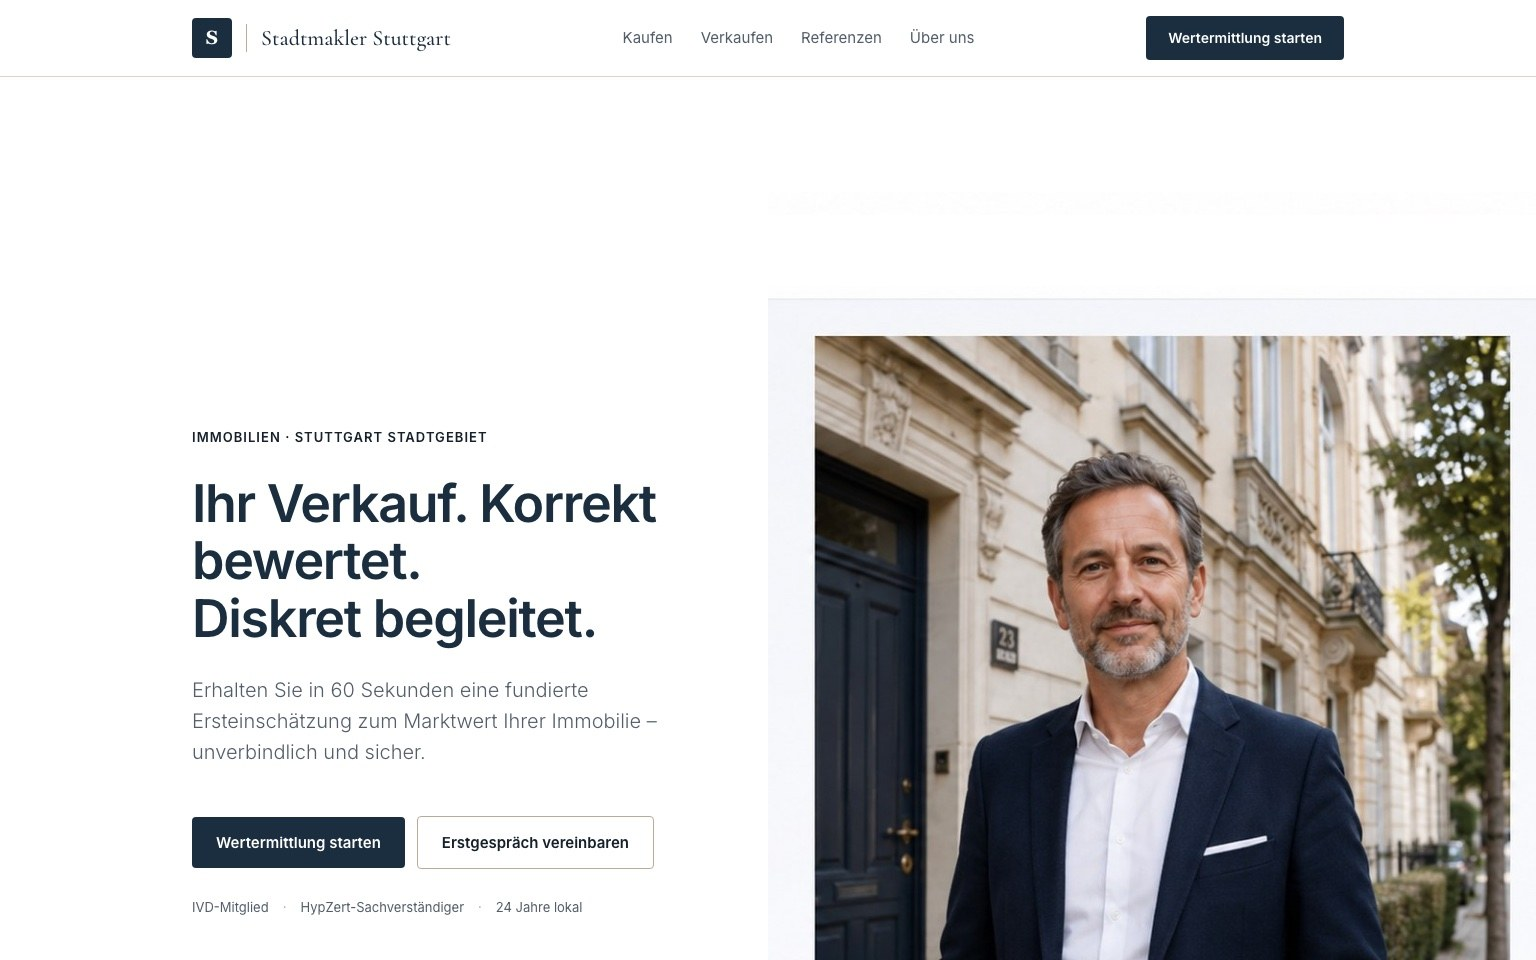
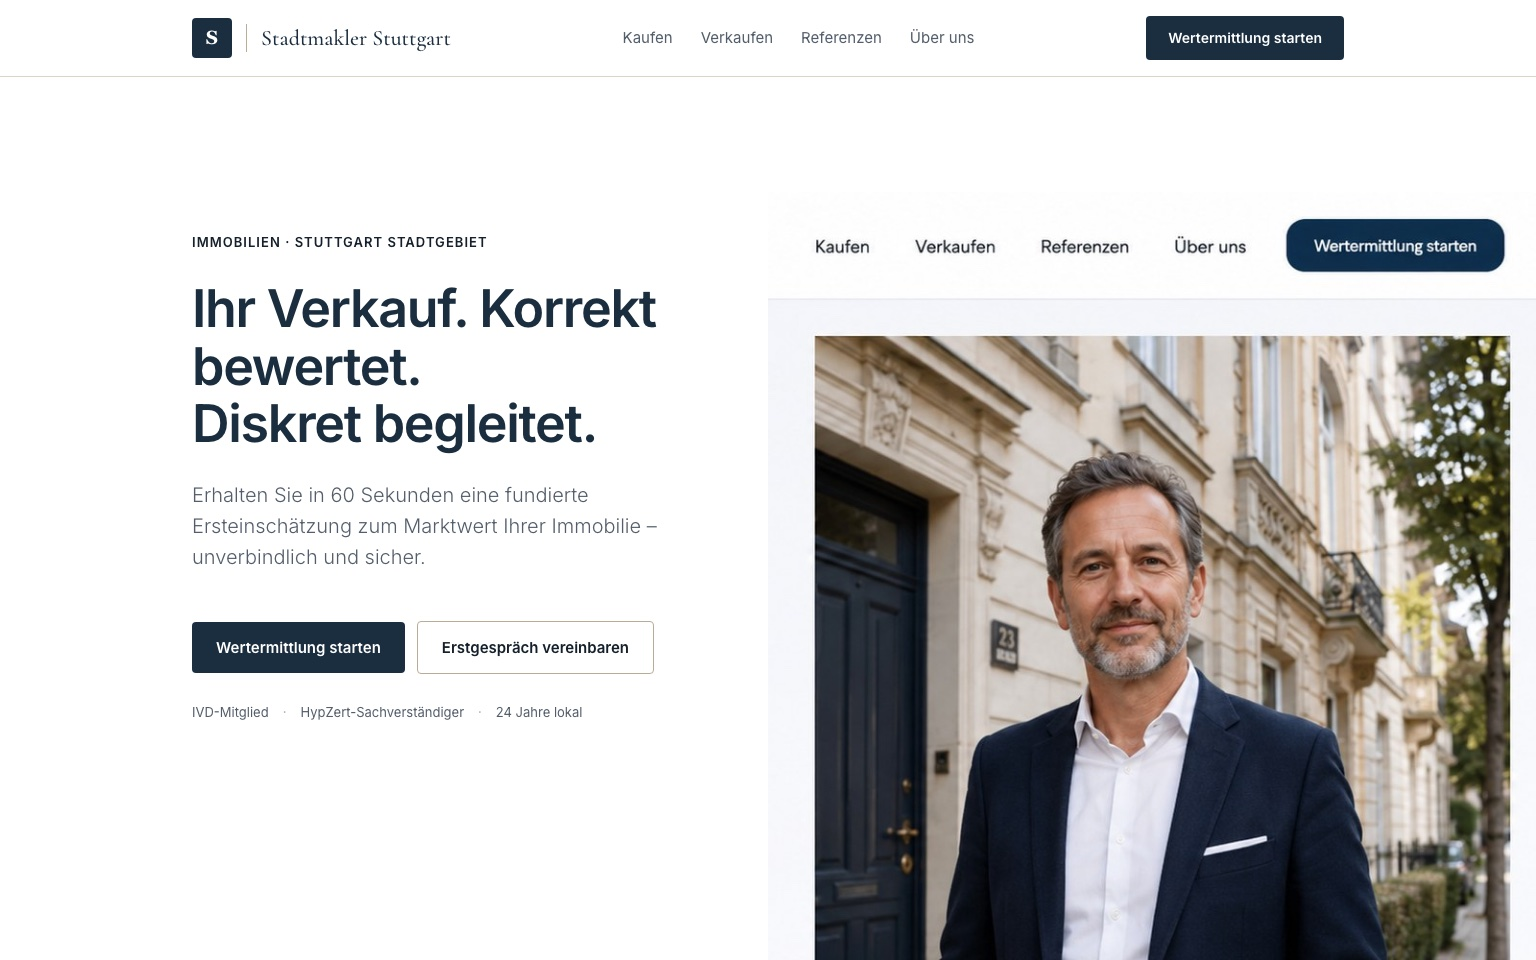
Sprint 30: Hero-Abstand reduziert + Doppel-Nav-Phantom weg
User: "Abstand zwischen Header und Text/Bild verkleinern. Das ist zu groß."

Fix:
- .hero align-items von center auf start (Content beginnt oben statt vertikal zentriert)
- .hero min-height von clamp(560px, 70vh, 760px) auf clamp(520px, 62vh, 680px)
- .hero-content padding-top von 64px auf 40px

Nebenwirkung positiv: die mysteriöse "zweite Nav-Bar" bei Y=228-270 ist auch verschwunden (war vermutlich ein Render-Artefakt der vertikalen Zentrierung — Eyebrow oder Trust-Strip-Pixel die wie eine Nav-Zeile aussahen).

Hero-Content rendert jetzt bei Y=300+ (statt Y=440+), Abstand zur Nav-Bar ~224px statt ~360px.

diff --git a/src/portfolio/immobilien-makler.html b/src/portfolio/immobilien-makler.html
@@ -160,8 +160,8 @@
         .mobile-toggle svg { width: 24px; height: 24px; }
         .mobile-menu { display: none; }
 
-        .hero { display: grid; grid-template-columns: 1fr 1fr; gap: 0; min-height: clamp(560px, 70vh, 760px); align-items: center; background: #fff; }
-        .hero-content { padding-top: 64px; padding-bottom: 64px; padding-left: max(24px, calc((100vw - var(--max)) / 2 + 24px)); padding-right: 56px; }
+        .hero { display: grid; grid-template-columns: 1fr 1fr; gap: 0; min-height: clamp(520px, 62vh, 680px); align-items: start; background: #fff; }
+        .hero-content { padding-top: 40px; padding-bottom: 48px; padding-left: max(24px, calc((100vw - var(--max)) / 2 + 24px)); padding-right: 56px; }
         .hero-portrait { align-self: stretch; height: 100%; overflow: hidden; }
         .hero-portrait img { width: 100%; height: 100%; object-fit: cover; display: block; }
         @media (max-width: 920px) {
